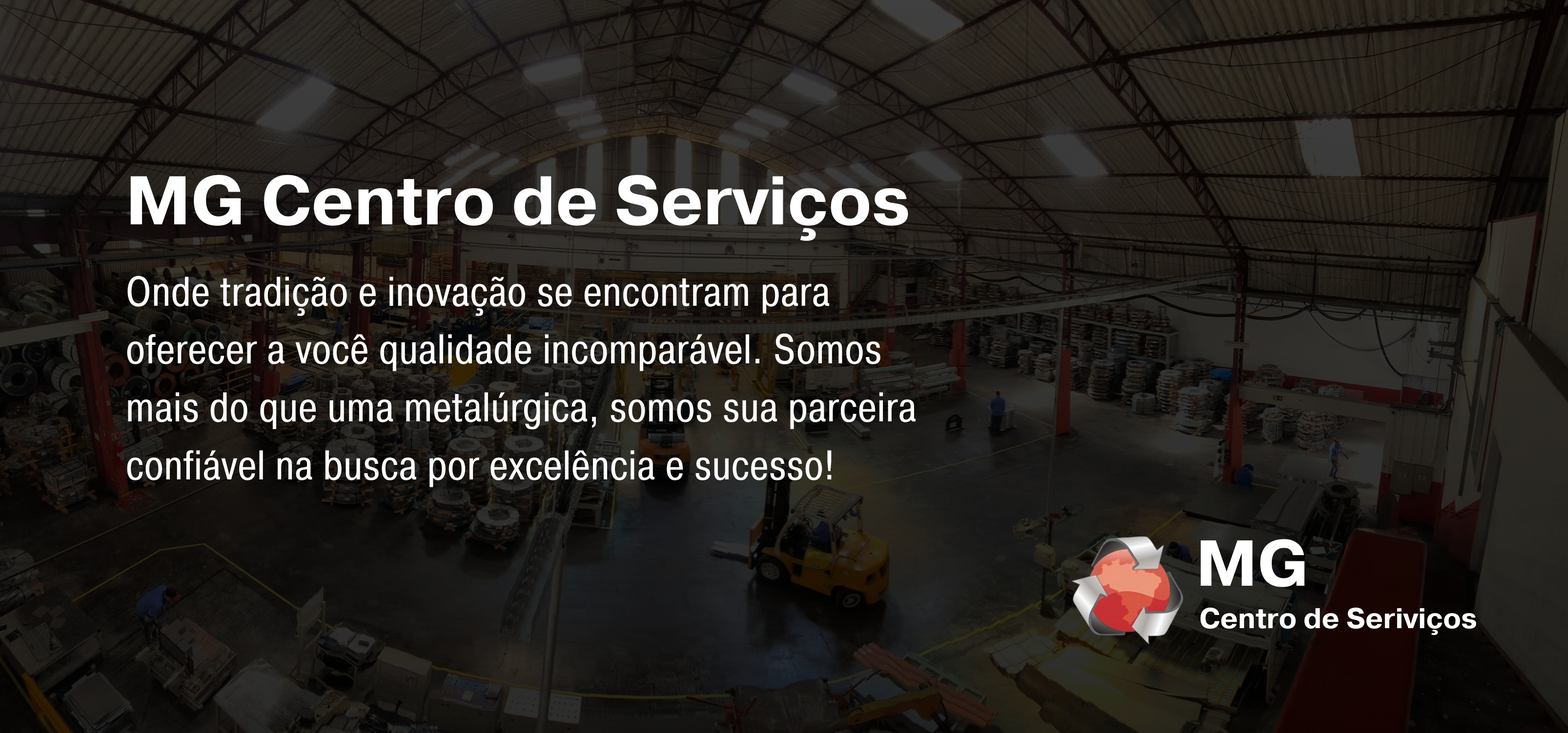
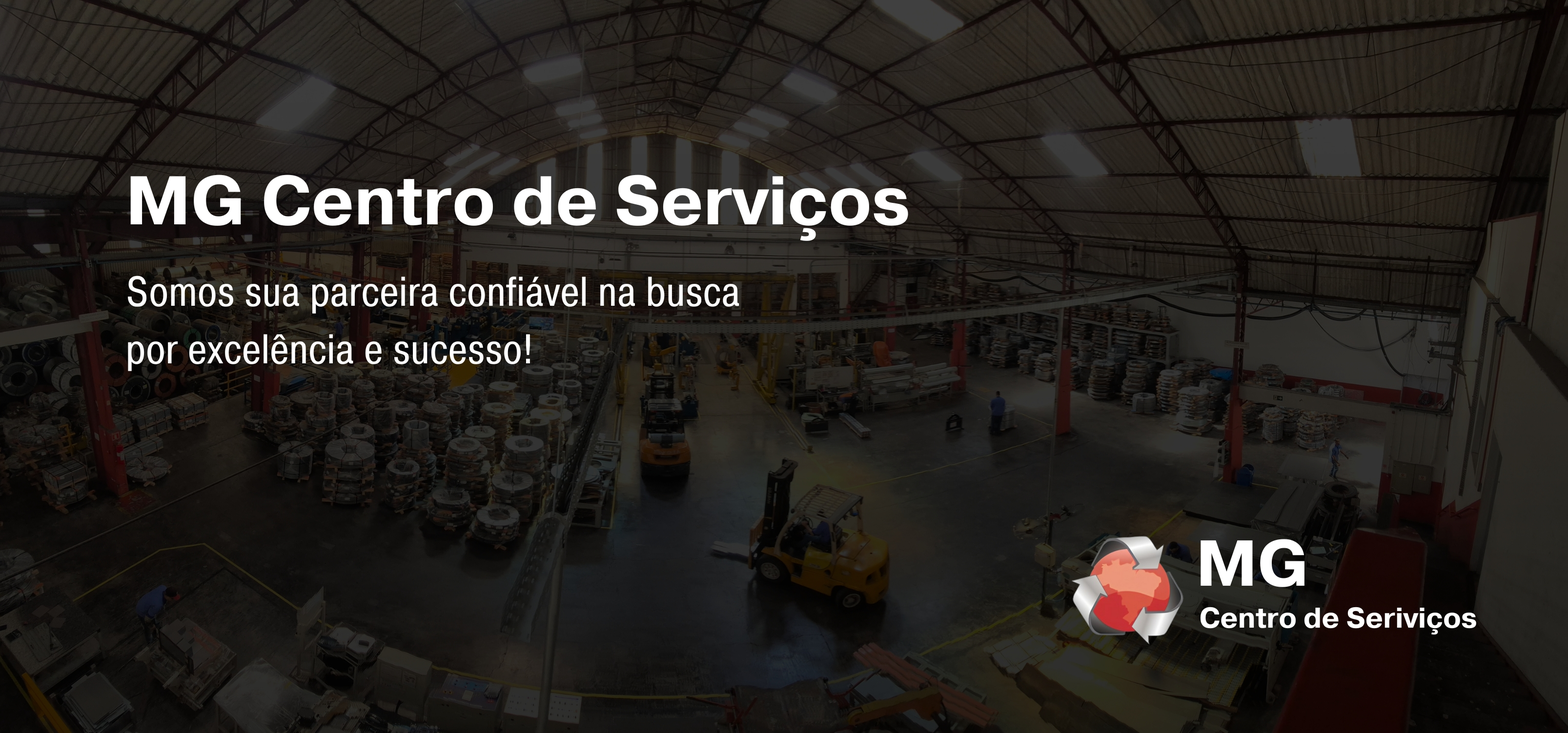
.

diff --git a/index.html b/index.html
@@ -149,7 +149,6 @@
          <ol class="carousel-indicators">
             <li data-target="#carouselExampleIndicators" data-slide-to="0" class="active"></li>
             <li data-target="#carouselExampleIndicators" data-slide-to="1"></li>
-            <li data-target="#carouselExampleIndicators" data-slide-to="2"></li>
          </ol>
          <div class="row align-items-center no-gutters">
             <div class="carousel-inner">
@@ -164,18 +163,7 @@
                      </picture>
                   </div>
                </div>
-               <div class="carousel-item">
-                  <div>
-                     <picture>
-                        <source media="(max-width: 768px)" srcset="images/banner2.jpg">
-                        <!--mobile-->
-                        <source media="(min-width: 769px)" srcset="images/banner2.jpg">
-                        <img class="d-block w-100" src="images/banner2.jpg"
-                           alt="Frota própria com equipamentos e profissionais altamente qualificados."
-                           title="Frota própria com equipamentos e profissionais altamente qualificados.">
-                     </picture>
-                  </div>
-               </div>
+         
                <div class="carousel-item">
                   <div>
                      <picture>
@@ -301,7 +289,7 @@
                            <div class="wow flipInX" data-wow-duration="2.5s">
                               <h2>MG Centro de Serviços</h2>
                               <p>O nosso parque fabril se estende por uma área de 7.500 metros quadrados, estrategicamente localizado próximo as rodovias Anchieta e Imigrantes, e ao Rodoanel (Trecho Sul - São Bernardo do Campo).
-                                 Buscando ser e ter um diferencial, a MG Centro de Serviços, investiu em máquinas de altíssima tecnologia, que combinadas com um sistema diferenciado de produção e uma equipe especializada, executam com agilidade, flexibilidade e qualidade, a comercialização e o serviço de corte de aços planos.
+                                 
                                  </p>
                               <p style="width: 105%;">Buscando ser e ter um diferencial, a MG Centro de Serviços, investiu em máquinas de altíssima tecnologia, que combinadas com um sistema diferenciado de produção e uma equipe especializada, executam com agilidade, flexibilidade e qualidade, a comercialização e o serviço de corte de aços planos.
                               </p>
@@ -378,8 +366,7 @@
                <div class="tab-pane fade" id="nav-profile" role="tabpanel" aria-labelledby="nav-profile-tab">
                   <div class="row justify-content-center mt-5">
                      <div class="col-lg-10 text-center text-home">
-                        <p>Garantimos a qualidade dos nossos materiais e serviços. Empresa certificada pela NBR
-                           ISO-14001.</p>
+                        <p> Garantimos a qualidade dos nossos materiais e serviços. Empresa certificada pela ISO 9001 e IATF 16949</p>
 
                         <a href="images/certificados.pdf" download="meu-arquivo.pdf" class="botao">Baixar
                            Certificados</a>
